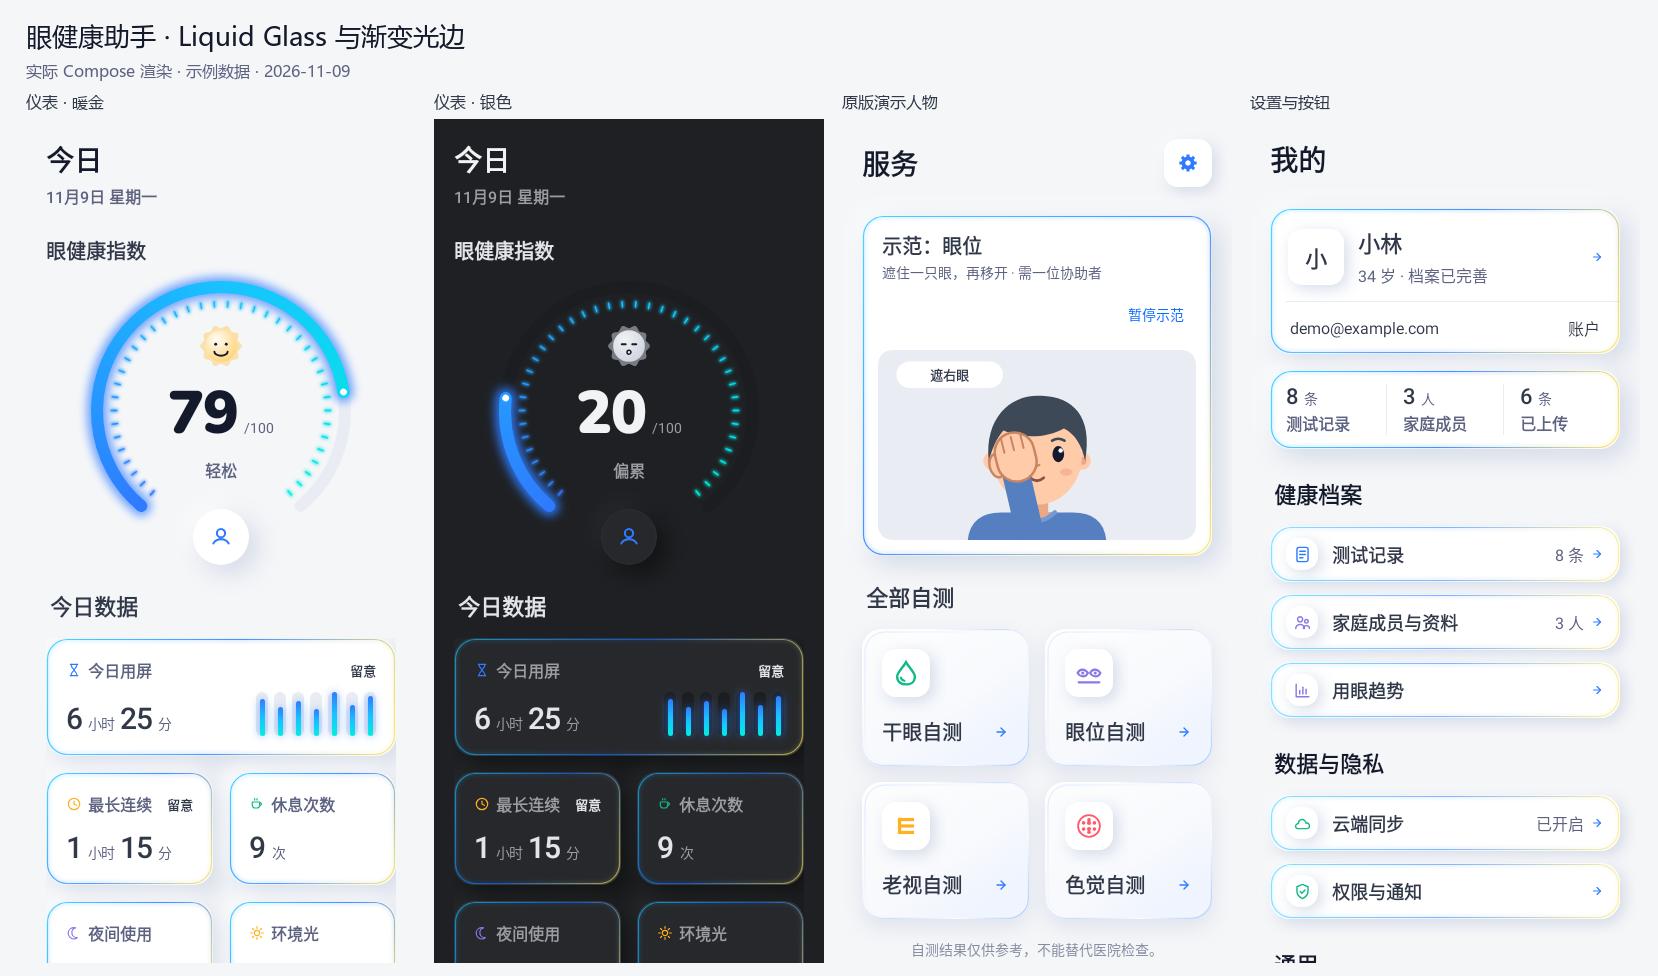
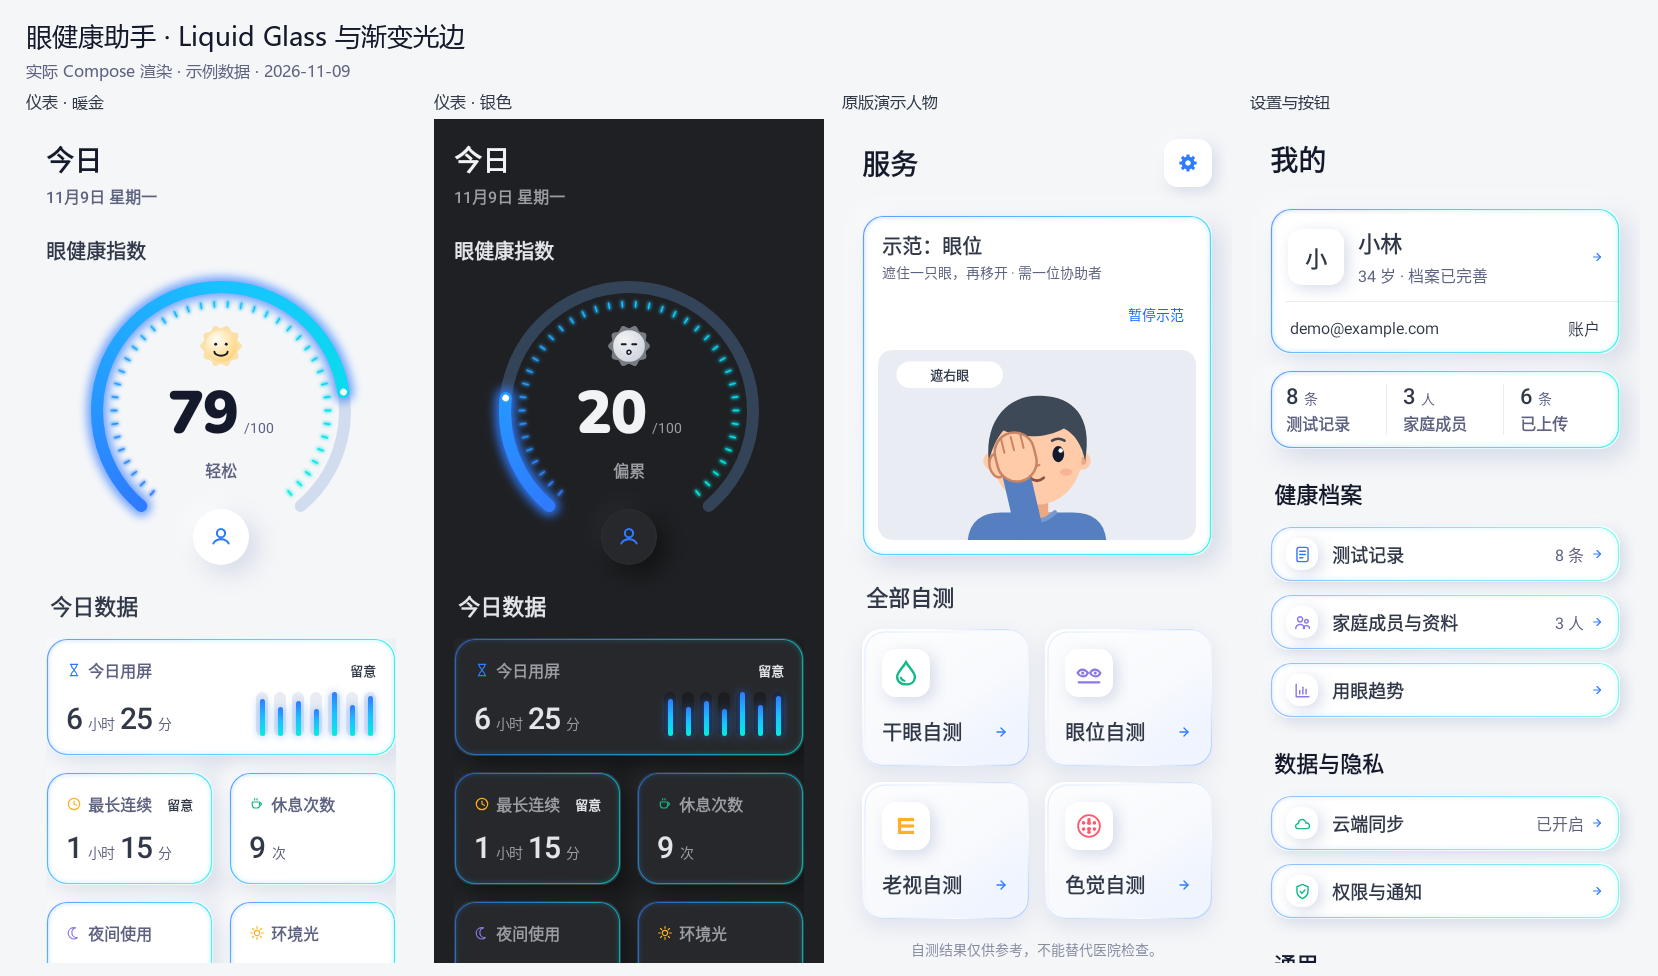
统一蓝青渐变并修复 iOS 首页圆环首帧显示
边框与光环共用蓝、青、青绿色令牌，增强无数据时的空轨道可见度。
iOS 首帧直接使用当前分数，后续由独立 Animatable 绘制层插值，取消默认零值与 onAppear 初始化依赖。
新增 iOS 原生像素回归，覆盖首帧弧线、明暗主题、减少动画、无数据与零值。

验证：Android 编译、125 项测试、assembleDebug 与 lint 通过；双端工程检查和 Swift 语法检查通过。
iOS 像素测试由本次 macOS 云端工作流执行。

Changed region(s): [[0.2768, 0.2766, 0.4306, 0.3996], [0.4306, 0.3381, 0.4614, 0.5225]]

diff --git a/iosApp/Tests/ProgressRingRenderingTests.swift b/iosApp/Tests/ProgressRingRenderingTests.swift
@@ -1,0 +1,64 @@
+import SwiftUI
+import UIKit
+import XCTest
+@testable import EyeProject
+
+/// 验证真实 SwiftUI 首帧像素，防止出现「刻度已亮、进度弧仍停在零」的回归。
+@MainActor
+final class ProgressRingRenderingTests: XCTestCase {
+    func testNonzeroScoreIsVisibleOnFirstFrame() throws {
+        for dark in [false, true] {
+            for reduced in [false, true] {
+                let image = try render(fraction: 0.79, dark: dark, reduced: reduced)
+                let arc = try pixel(image, x: 6, y: 130)
+                // 左侧弧线为蓝青色；空轨道、空白或只有内侧刻度均无法满足。
+                XCTAssertGreaterThan(arc.b - arc.r, 0.25, "首帧必须直接绘出当前分数的进度弧")
+                attach(image, name: "79分-\(dark ? "深色" : "浅色")-减少动画\(reduced)")
+            }
+        }
+    }
+
+    func testZeroAndMissingScoreKeepNeutralTrackVisible() throws {
+        for dark in [false, true] {
+            for fraction: Double? in [nil, 0] {
+                let image = try render(fraction: fraction, dark: dark, reduced: true)
+                let track = try pixel(image, x: 6, y: 130)
+                let background = try pixel(image, x: 0, y: 0)
+                XCTAssertLessThan(abs(track.b - track.r), 0.15, "没有分数时不能伪造彩色进度")
+                XCTAssertGreaterThan(abs(track.r - background.r) + abs(track.g - background.g) + abs(track.b - background.b),
+                    0.18, "无数据和零分时也应保留可见轨道")
+            }
+        }
+    }
+
+    private func render(fraction: Double?, dark: Bool, reduced: Bool) throws -> UIImage {
+        let view = ProgressRing(fraction: fraction, lineWidth: 12, ticks: 40, showEndpoint: true,
+            startAngle: 130, sweepAngle: 280, uniformTicks: true)
+            .frame(width: 260, height: 260).background(EyeStyle.background)
+            .environment(\.colorScheme, dark ? .dark : .light)
+            .environment(\.accessibilityReduceMotion, reduced)
+        let renderer = ImageRenderer(content: view)
+        renderer.scale = 1
+        return try XCTUnwrap(renderer.uiImage)
+    }
+
+    private func pixel(_ image: UIImage, x: Int, y: Int) throws -> (r: Double, g: Double, b: Double) {
+        let cg = try XCTUnwrap(image.cgImage)
+        var rgba = [UInt8](repeating: 0, count: cg.width * cg.height * 4)
+        try rgba.withUnsafeMutableBytes { buffer in
+            let context = try XCTUnwrap(CGContext(data: buffer.baseAddress, width: cg.width, height: cg.height,
+                bitsPerComponent: 8, bytesPerRow: cg.width * 4, space: CGColorSpaceCreateDeviceRGB(),
+                bitmapInfo: CGBitmapInfo.byteOrder32Big.rawValue | CGImageAlphaInfo.premultipliedLast.rawValue))
+            context.draw(cg, in: CGRect(x: 0, y: 0, width: CGFloat(cg.width), height: CGFloat(cg.height)))
+        }
+        let i = (y * cg.width + x) * 4
+        return (Double(rgba[i]) / 255, Double(rgba[i + 1]) / 255, Double(rgba[i + 2]) / 255)
+    }
+
+    private func attach(_ image: UIImage, name: String) {
+        let attachment = XCTAttachment(image: image)
+        attachment.name = name
+        attachment.lifetime = .keepAlways
+        add(attachment)
+    }
+}

diff --git a/iosApp/Sources/EyeSurfaces.swift b/iosApp/Sources/EyeSurfaces.swift
@@ -179,7 +179,7 @@ struct VDivider: View {
 
 // MARK: - 圆环与 AI 标识
 
-/// 分段插值的连续色弧：起点和端点使用相邻位置的颜色，消除渐变零点的异色圆帽。
+/// 直接使用当前分数绘制首帧；后续变化由独立的 Animatable 图层插值，不依赖 onAppear 初始化。
 struct ProgressRing: View {
     let fraction: Double?
     var lineWidth: CGFloat = 9
@@ -190,7 +190,29 @@ struct ProgressRing: View {
     var sweepAngle: Double = 360
     var uniformTicks = false
     @Environment(\.accessibilityReduceMotion) private var reduced
-    @State private var shown: Double = 0
+
+    var body: some View {
+        let value = fraction.map { $0.isFinite ? min(1, max(0, $0)) : 0 } ?? 0
+        ProgressRingDrawing(value: value, lineWidth: lineWidth, tint: tint, ticks: ticks,
+            showEndpoint: showEndpoint, startAngle: startAngle, sweepAngle: sweepAngle, uniformTicks: uniformTicks)
+            .animation(reduced ? nil : .easeOut(duration: 0.9), value: value)
+    }
+}
+
+/// 明确的可动画值随 SwiftUI 每帧传入 Canvas，刻度、轨道和进度弧均使用同一坐标系。
+private struct ProgressRingDrawing: View, Animatable {
+    var value: Double
+    let lineWidth: CGFloat
+    let tint: Color?
+    let ticks: Int
+    let showEndpoint: Bool
+    let startAngle: Double
+    let sweepAngle: Double
+    let uniformTicks: Bool
+    var animatableData: Double {
+        get { value }
+        set { value = min(1, max(0, newValue)) }
+    }
 
     private func point(_ center: CGPoint, _ radius: CGFloat, _ degrees: Double) -> CGPoint {
         let a = degrees * .pi / 180
@@ -220,10 +242,9 @@ struct ProgressRing: View {
         Canvas { ctx, size in
             let center = CGPoint(x: size.width / 2, y: size.height / 2)
             let radius = (min(size.width, size.height) - lineWidth) / 2
-            ctx.stroke(path(center, radius, sweepAngle), with: .color(EyeStyle.surfaceVariant),
+            ctx.stroke(path(center, radius, sweepAngle), with: .color(EyeStyle.ringTrack),
                 style: StrokeStyle(lineWidth: lineWidth, lineCap: .round))
-            if let fraction, fraction > 0, shown > 0 {
-                let value = min(1, max(0, shown))
+            if value > 0 {
                 let sweep = sweepAngle * value
                 if tint == nil {
                     var glow = ctx
@@ -265,8 +286,6 @@ struct ProgressRing: View {
                 }
             }
         }
-        .onAppear { withAnimation(reduced ? nil : .easeOut(duration: 0.9)) { shown = fraction ?? 0 } }
-        .onChange(of: fraction ?? 0) { value in withAnimation(reduced ? nil : .easeOut(duration: 0.9)) { shown = value } }
     }
 }
 

diff --git a/iosApp/Sources/EyeStyle.swift b/iosApp/Sources/EyeStyle.swift
@@ -102,9 +102,8 @@ enum EyeStyle {
     static let cardBorderOpacityDark: Double = 0.64
     static let cardGlowOpacity: Double = 0.38
     static let cardBorderSubtle: Double = 0.65
-    static let borderYellow = Color(rgb: 0xFFE34D)
     static var borderGradient: LinearGradient {
-        LinearGradient(colors: [dataCyan, primaryDark, borderYellow], startPoint: .topLeading, endPoint: .bottomTrailing)
+        LinearGradient(colors: [brandStart, dataCyan, dataAqua], startPoint: .topLeading, endPoint: .bottomTrailing)
     }
     static let liquidShadowRadius: CGFloat = 18
     static let liquidShadowOffset: CGFloat = 8
@@ -124,6 +123,7 @@ enum EyeStyle {
     static let glowCoreOpacity: Double = 0.32
     static let dataCyan = Color(rgb: 0x18C2FF)
     static let dataAqua = Color(rgb: 0x00EFE0)
+    static let ringTrack = dyn(0xD1DDEE, 0x344458)
     static let dataMint = Color(rgb: 0x2CF2C8)
     static var dataGradient: LinearGradient {
         LinearGradient(colors: [brandStart, dataCyan, dataAqua], startPoint: .top, endPoint: .bottom)

diff --git a/core/designsystem/src/main/java/com/zkyjss/eyeproject/core/designsystem/theme/Color.kt b/core/designsystem/src/main/java/com/zkyjss/eyeproject/core/designsystem/theme/Color.kt
@@ -80,8 +80,8 @@ data class EyeColors(
     val shadowLight: Color get() = Color.White.copy(alpha = if (isDark) 0.045f else 0.95f)
     val dataCyan: Color get() = Color(0xFF18C2FF)
     val dataAqua: Color get() = Color(0xFF00EFE0)
-    val borderYellow: Color get() = Color(0xFFFFE34D)
-    val borderColors: List<Color> get() = listOf(dataCyan, primaryDark, borderYellow)
+    val ringTrack: Color get() = if (isDark) Color(0xFF344458) else Color(0xFFD1DDEE)
+    val borderColors: List<Color> get() = listOf(brandStart, dataCyan, dataAqua)
     val borderBrush: Brush get() = Brush.linearGradient(borderColors)
     val dataMint: Color get() = Color(0xFF2CF2C8)
     val chatUserBackground: Color get() = primaryDark

diff --git a/core/ui/src/main/java/com/zkyjss/eyeproject/core/ui/component/EyeSurfaces.kt b/core/ui/src/main/java/com/zkyjss/eyeproject/core/ui/component/EyeSurfaces.kt
@@ -247,7 +247,7 @@ fun DrawScope.drawProgressRing(colors: EyeColors, fraction: Float?, stroke: Floa
     val arcSize = Size(size.minDimension - stroke, size.minDimension - stroke)
     val topLeft = Offset((size.width - arcSize.width) / 2, (size.height - arcSize.height) / 2)
     val totalSweep = sweepAngle.coerceIn(0f, 360f)
-    drawArc(colors.surfaceVariant, startAngle, totalSweep, false, topLeft, arcSize, style = Stroke(stroke, cap = StrokeCap.Round))
+    drawArc(colors.ringTrack, startAngle, totalSweep, false, topLeft, arcSize, style = Stroke(stroke, cap = StrokeCap.Round))
     if (fraction == null) return
     val progress = fraction.coerceIn(0f, 1f)
     val sweep = totalSweep * progress

diff --git a/core/designsystem/DESIGNSYSTEM.md b/core/designsystem/DESIGNSYSTEM.md
@@ -59,8 +59,10 @@
 
 标题层次：headline 28/36、title 22/30、subtitle 20/28；灰色类别标题 label 16/24 半粗，列表标题 navigationTitle 18/26 半粗。双端同步。
 
-卡片光边试版：`eyeGlowBorder` 缓存形状，叠加青蓝 → 深蓝 → 亮黄色的完整渐变细边；宽 1.2、内缩 1.5、光晕 3，浅 / 深色线条透明度 0.72 / 0.64。列表采用 0.65 倍强度。光效只作用在边缘，不新增循环动画，不改变内容尺寸与点击范围。
+卡片光边试版：`eyeGlowBorder` 缓存形状，叠加蓝 → 青 → 青绿色的完整渐变细边；宽 1.2、内缩 1.5、光晕 3，浅 / 深色线条透明度 0.72 / 0.64。列表采用 0.65 倍强度。光效只作用在边缘，不新增循环动画，不改变内容尺寸与点击范围。
 
 Liquid Glass 试版：`EyeLiquidGlass` / `eyeLiquidGlass` 为 Android API 26+ 的分层视觉模拟，使用半透明填充、轻微蓝色环境染色、弯曲高光和双层镜片边缘；轮廓与画刷按尺寸缓存，不采集页面快照、不做实时背景折射。仅用于护眼工具、爱科入口、自测入口与底部导航，普通数据卡保留渐变光边。
 
-光边独立配色 borderColors：青蓝 `#18C2FF` → 深蓝 `#0A6CFF` → 亮黄色 `#FFE34D`，卡片与按钮共用；圆环与柱图仍使用原蓝青数据配色。
+光边独立配色 borderColors：蓝 `#2F7BFF` → 青 `#18C2FF` → 青绿色 `#00EFE0`，卡片与按钮共用；与圆环和柱图共用同一组蓝青数据配色。
+
+仪表空轨道 ringTrack 为浅色 `#D1DDEE` / 深色 `#344458`，提高无数据时的可见度；未知分数仍显示破折号，不绘制虚假进度。

diff --git a/docs/ui-soft-health/README.md b/docs/ui-soft-health/README.md
@@ -17,7 +17,7 @@
 
 ## 卡片渐变光边试版
 
-今日数据、方法示范、个人卡和概览采用整圈青蓝、深蓝到亮黄色的渐变光边；列表与开关行采用较淡版本。边线 1.2、窄光晕 3，不改变布局和操作范围。仪表仍无底色块，原版演示人物与动作保持。
+今日数据、方法示范、个人卡和概览采用整圈蓝、青到青绿色的渐变光边；列表与开关行采用较淡版本。边线 1.2、窄光晕 3，不改变布局和操作范围。仪表仍无底色块，原版演示人物与动作保持。
 
 ![三页光边预览](pages-preview.png)
 
@@ -53,6 +53,10 @@
 ![遮眼演示](guide-cover.gif)
 
 [人物帧对照](guide-character-preview.png) · [准备与测距](dry-eye-setup.png) · [大字号引导](guide-large-text.png)
+
+## iOS 圆环修复
+
+首帧直接读取当前分数，后续由 Animatable 层插值；取消默认零值与 onAppear 初始化依赖。无数据时保留更清晰的蓝灰空轨道，不伪造分数与进度。ProgressRingRenderingTests 覆盖首帧弧线、明暗主题、减少动画、无数据与零值，实际执行结果以本次 macOS 云端测试为准。
 
 ## 验证
 

diff --git a/feature/home/HOME.md b/feature/home/HOME.md
@@ -64,6 +64,10 @@
 
 首页灰色类别标题采用 label 16/24 半粗；分区标题 22、卡片标题 20。等长刻度按圆环对应位置取蓝青渐变并发光，底部头像开口保持。
 
-光边试版：今日数据卡、护眼工具与爱科卡增加青蓝、深蓝到亮黄色的渐变细光边。仪表不增加底色块；人物、刻度、字号与上一轮确认的实现保持。
+光边试版：今日数据卡、护眼工具与爱科卡增加蓝、青到青绿色的渐变细光边。仪表不增加底色块；人物、刻度、字号与上一轮确认的实现保持。
 
 Liquid Glass 试版：护眼工具与爱科入口改为轻量玻璃模拟，按压时高光略微增强；今日数据卡仍用渐变光边。仪表留白、暖金 / 银色表情和原版演示动画保持。
+
+iOS 圆环首帧直接读取当前分数；独立 Animatable 绘制层负责后续插值，取消默认零值与 onAppear 初始化依赖。新增 iOS 像素回归覆盖首帧、减少动画、无数据与零值，截图保存在云端测试附件。
+
+首次使用无数据时仍保留清晰的空轨道；不把空值当作有分数处理，也不绘制虚假充能进度。
